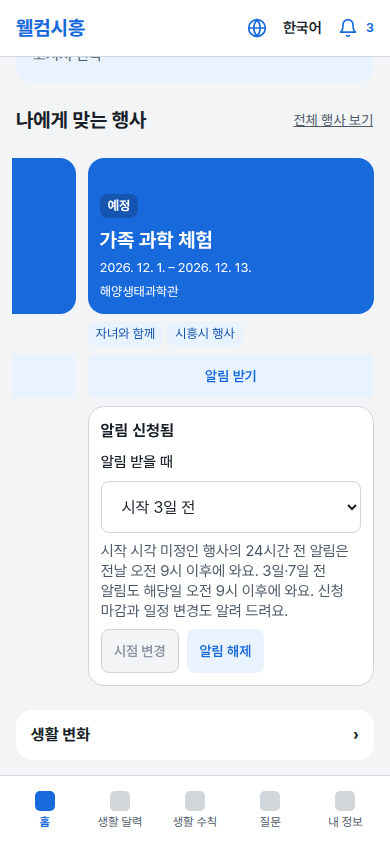
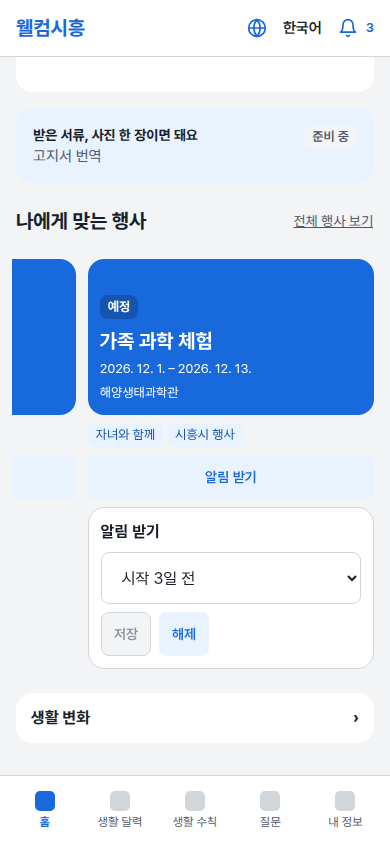
style: 행사 알림 설정 패널 간소화

diff --git a/src/features/events/messages.ts b/src/features/events/messages.ts
@@ -33,20 +33,15 @@ export const eventMessages = defineMessages({
       askDraft: '‘{{title}}’ 행사에 대해 알려 주세요.',
       reminder: {
         title: '알림 받기',
-        on: '알림 신청됨',
         timing: '알림 받을 때',
         day1: '시작 24시간 전',
         day3: '시작 3일 전',
         day7: '시작 7일 전',
-        change: '시점 변경',
-        remove: '알림 해제',
+        save: '저장',
+        remove: '해제',
         ended: '끝난 행사는 알림을 신청하거나 변경할 수 없어요.',
         loadError: '알림 설정을 불러오지 못했어요.',
         saveError: '저장하지 못했어요. 다시 시도해 주세요.',
-        policy:
-          '3일·7일 전 알림은 한국 시간 오전 9시 이후에 와요. 신청 마감과 일정 변경도 알려 드려요.',
-        dateOnly:
-          '시작 시각 미정인 행사의 24시간 전 알림은 전날 오전 9시 이후에 와요. 3일·7일 전 알림도 해당일 오전 9시 이후에 와요. 신청 마감과 일정 변경도 알려 드려요.',
       },
       previous: '이전 페이지',
       next: '다음 페이지',
@@ -107,21 +102,16 @@ export const eventMessages = defineMessages({
       askDraft: 'Tell me about the event “{{title}}”.',
       reminder: {
         title: 'Get reminders',
-        on: 'Reminders on',
         timing: 'Remind me',
         day1: '24 hours before the start',
         day3: '3 days before the start',
         day7: '7 days before the start',
-        change: 'Change reminder time',
-        remove: 'Turn off reminders',
+        save: 'Save',
+        remove: 'Unsubscribe',
         ended:
           'This event has ended. You can still turn off an existing reminder.',
         loadError: 'Could not load reminder settings.',
         saveError: 'Could not save. Please try again.',
-        policy:
-          '3- and 7-day reminders arrive after 9 a.m. Korea time. We also notify you of registration deadlines and schedule changes.',
-        dateOnly:
-          'If the start time is unknown, the 24-hour reminder arrives after 9 a.m. the day before. 3- and 7-day reminders also arrive after 9 a.m. Korea time. We also notify you of registration deadlines and schedule changes.',
       },
       previous: 'Previous page',
       next: 'Next page',
@@ -182,20 +172,15 @@ export const eventMessages = defineMessages({
       askDraft: '请介绍一下“{{title}}”活动。',
       reminder: {
         title: '接收提醒',
-        on: '提醒已开启',
         timing: '提醒时间',
         day1: '开始前24小时',
         day3: '开始前3天',
         day7: '开始前7天',
-        change: '更改提醒时间',
-        remove: '关闭提醒',
+        save: '保存',
+        remove: '关闭',
         ended: '活动已结束，无法开启提醒或更改提醒时间。',
         loadError: '无法加载提醒设置。',
         saveError: '保存失败，请重试。',
-        policy:
-          '提前3天或7天的提醒于韩国时间上午9点后发送。报名截止和日程变更也会提醒。',
-        dateOnly:
-          '开始时间未定时，24小时提醒于前一天上午9点后发送。提前3天或7天的提醒也于韩国时间上午9点后发送。报名截止和日程变更也会提醒。',
       },
       previous: '上一页',
       next: '下一页',
@@ -256,20 +241,15 @@ export const eventMessages = defineMessages({
       askDraft: 'Hãy cho tôi biết về sự kiện “{{title}}”.',
       reminder: {
         title: 'Nhận thông báo',
-        on: 'Đã bật thông báo',
         timing: 'Thời điểm nhắc',
         day1: '24 giờ trước khi bắt đầu',
         day3: '3 ngày trước khi bắt đầu',
         day7: '7 ngày trước khi bắt đầu',
-        change: 'Đổi thời điểm nhắc',
-        remove: 'Tắt thông báo',
+        save: 'Lưu',
+        remove: 'Tắt',
         ended: 'Sự kiện đã kết thúc nên không thể bật hoặc đổi thời điểm nhắc.',
         loadError: 'Không tải được cài đặt thông báo.',
         saveError: 'Không lưu được. Vui lòng thử lại.',
-        policy:
-          'Thông báo trước 3 hoặc 7 ngày được gửi sau 9 giờ sáng theo giờ Hàn Quốc. Bạn cũng sẽ được báo về hạn đăng ký và thay đổi lịch.',
-        dateOnly:
-          'Nếu chưa rõ giờ bắt đầu, thông báo trước 24 giờ được gửi sau 9 giờ sáng ngày hôm trước. Thông báo trước 3 hoặc 7 ngày cũng được gửi sau 9 giờ sáng theo giờ Hàn Quốc. Bạn cũng sẽ được báo về hạn đăng ký và thay đổi lịch.',
       },
       previous: 'Trang trước',
       next: 'Trang sau',

diff --git a/src/features/events/ui/event-subscription.tsx b/src/features/events/ui/event-subscription.tsx
@@ -13,10 +13,12 @@ export function EventSubscription({
   event,
   memberId,
   initiallySubscribed = false,
+  alignActionsEnd = false,
 }: {
   event: EventSummary
   memberId: number
   initiallySubscribed?: boolean
+  alignActionsEnd?: boolean
 }) {
   const { t } = useTranslation()
   const { status, pending, error, save } = useEventSubscription(
@@ -31,9 +33,7 @@ export function EventSubscription({
 
   return (
     <section className={styles.panel} aria-label={t('events.reminder.title')}>
-      <strong>
-        {t(subscribed ? 'events.reminder.on' : 'events.reminder.title')}
-      </strong>
+      <strong>{t('events.reminder.title')}</strong>
       {status.isPending ? (
         <div role="status">{t('common.loading')}</div>
       ) : status.isError && !status.data ? (
@@ -48,31 +48,40 @@ export function EventSubscription({
           {ended ? (
             <Muted>{t('events.reminder.ended')}</Muted>
           ) : (
-            <>
-              <SelectField
-                label={t('events.reminder.timing')}
-                value={leadDays}
-                disabled={pending}
-                options={eventLeadDays.map((day) => ({
-                  value: String(day),
-                  label: t(`events.reminder.day${day}`),
-                }))}
-                onChange={(e) =>
-                  setChoice(
-                    eventLeadDays.find((day) => day === Number(e.target.value)),
-                  )
-                }
-              />
-              <Muted>
-                {t(
-                  event.timeUnknown || !event.startsAt
-                    ? 'events.reminder.dateOnly'
-                    : 'events.reminder.policy',
-                )}
-              </Muted>
-            </>
+            <SelectField
+              label={t('events.reminder.timing')}
+              hideLabel
+              value={leadDays}
+              disabled={pending}
+              options={eventLeadDays.map((day) => ({
+                value: String(day),
+                label: t(`events.reminder.day${day}`),
+              }))}
+              onChange={(e) =>
+                setChoice(
+                  eventLeadDays.find((day) => day === Number(e.target.value)),
+                )
+              }
+            />
           )}
-          <div className={styles.actions}>
+          {pending && (
+            <div role="status" className="visually-hidden">
+              {t('common.loading')}
+            </div>
+          )}
+          {error && (
+            <div role="alert">
+              {t(
+                error instanceof ApiError && error.code === 'EVENT_NOT_FOUND'
+                  ? 'events.notFound'
+                  : 'events.reminder.saveError',
+              )}
+            </div>
+          )}
+          <div
+            className={styles.actions}
+            data-align-end={alignActionsEnd || undefined}
+          >
             {!ended && (
               <Button
                 variant="secondary"
@@ -82,9 +91,7 @@ export function EventSubscription({
                 onClick={() => save(leadDays, () => setChoice(undefined))}
               >
                 {t(
-                  subscribed
-                    ? 'events.reminder.change'
-                    : 'events.reminder.title',
+                  subscribed ? 'events.reminder.save' : 'events.reminder.title',
                 )}
               </Button>
             )}
@@ -98,16 +105,6 @@ export function EventSubscription({
               </Button>
             )}
           </div>
-          {pending && <div role="status">{t('common.loading')}</div>}
-          {error && (
-            <div role="alert">
-              {t(
-                error instanceof ApiError && error.code === 'EVENT_NOT_FOUND'
-                  ? 'events.notFound'
-                  : 'events.reminder.saveError',
-              )}
-            </div>
-          )}
         </>
       )}
     </section>

diff --git a/src/shared/ui/field.tsx b/src/shared/ui/field.tsx
@@ -120,6 +120,7 @@ export function SelectField({
   error,
   options,
   className,
+  hideLabel,
   ref,
   ...select
 }: Own<SelectHTMLAttributes<HTMLSelectElement>> & {
@@ -127,7 +128,7 @@ export function SelectField({
   ref?: Ref<HTMLSelectElement>
 }) {
   return (
-    <Field {...{ label, error, className }}>
+    <Field {...{ label, error, className, hideLabel }}>
       {(control) => (
         <select {...select} {...control} ref={ref}>
           {options.map((option) => (

diff --git a/src/pages/events/event-pages.tsx b/src/pages/events/event-pages.tsx
@@ -190,6 +190,7 @@ function EventDetailContent({
         event={query.data}
         memberId={memberId}
         initiallySubscribed={query.data.subscribed}
+        alignActionsEnd
       />
       <EventActions event={query.data} />
       <EventReport event={query.data} memberId={memberId} />

diff --git a/src/features/events/ui/event-subscription.module.css b/src/features/events/ui/event-subscription.module.css
@@ -1,4 +1,5 @@
 .panel {
+  position: relative;
   display: grid;
   gap: var(--space-8);
   padding: var(--space-12);
@@ -11,4 +12,8 @@
   display: flex;
   flex-wrap: wrap;
   gap: var(--space-8);
+}
+
+.actions[data-align-end] {
+  justify-content: flex-end;
 }
